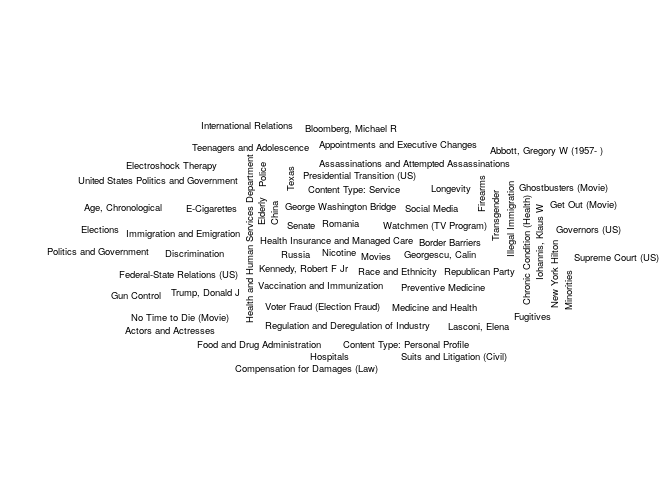
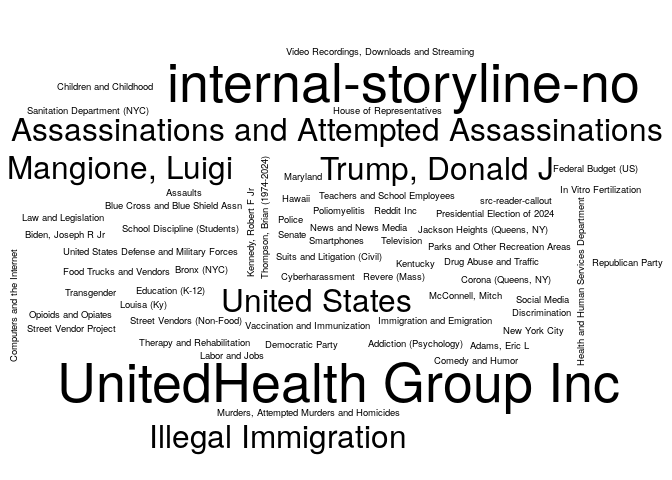
Updating the NYT report

Changed region(s): [[0.0, 0.0938, 1.0, 0.9688], [0.0938, 0.1562, 0.2188, 0.1875]]

diff --git a/03-nytimes/README.md b/03-nytimes/README.md
@@ -5,7 +5,7 @@ The following is an example of how to use the [NYTimes
 API](https://developer.nytimes.com/) to get a list of articles related
 to a particular term. Here we are searching articles that include the
 term `"health"`, and that were published up to seven days ago since
-2024-12-09.
+2024-12-16.
 
 ``` r
 # Preparing a function to use the GET method with the NYTimes API
@@ -85,23 +85,23 @@ knitr::kable(tab, row.names = FALSE)
 
 | Keyword                                     | \# Articles |
 |:--------------------------------------------|------------:|
-| Midtown Area (Manhattan, NY)                |          10 |
-| Murders, Attempted Murders and Homicides    |          10 |
-| Rumors and Misinformation                   |          10 |
-| Thompson, Brian (1974-2024)                 |          10 |
-| UnitedHealth Group Inc                      |          10 |
-| Abbott, Gregory W (1957- )                  |           5 |
-| Actors and Actresses                        |           5 |
-| Age, Chronological                          |           5 |
-| Appointments and Executive Changes          |           5 |
-| Assassinations and Attempted Assassinations |           5 |
-| Bloomberg, Michael R                        |           5 |
-| Border Barriers                             |           5 |
-| China                                       |           5 |
-| Chronic Condition (Health)                  |           5 |
-| Compensation for Damages (Law)              |           5 |
-| Content Type: Personal Profile              |           5 |
-| Content Type: Service                       |           5 |
-| Discrimination                              |           5 |
-| E-Cigarettes                                |           5 |
-| Elderly                                     |           5 |
+| Health Insurance and Managed Care           |          20 |
+| United States Politics and Government       |          20 |
+| internal-storyline-no                       |          15 |
+| UnitedHealth Group Inc                      |          15 |
+| Assassinations and Attempted Assassinations |          10 |
+| Illegal Immigration                         |          10 |
+| Mangione, Luigi                             |          10 |
+| Trump, Donald J                             |          10 |
+| United States                               |          10 |
+| Adams, Eric L                               |           5 |
+| Addiction (Psychology)                      |           5 |
+| Assaults                                    |           5 |
+| Biden, Joseph R Jr                          |           5 |
+| Blue Cross and Blue Shield Assn             |           5 |
+| Bronx (NYC)                                 |           5 |
+| Children and Childhood                      |           5 |
+| Comedy and Humor                            |           5 |
+| Computers and the Internet                  |           5 |
+| Corona (Queens, NY)                         |           5 |
+| Cyberharassment                             |           5 |
